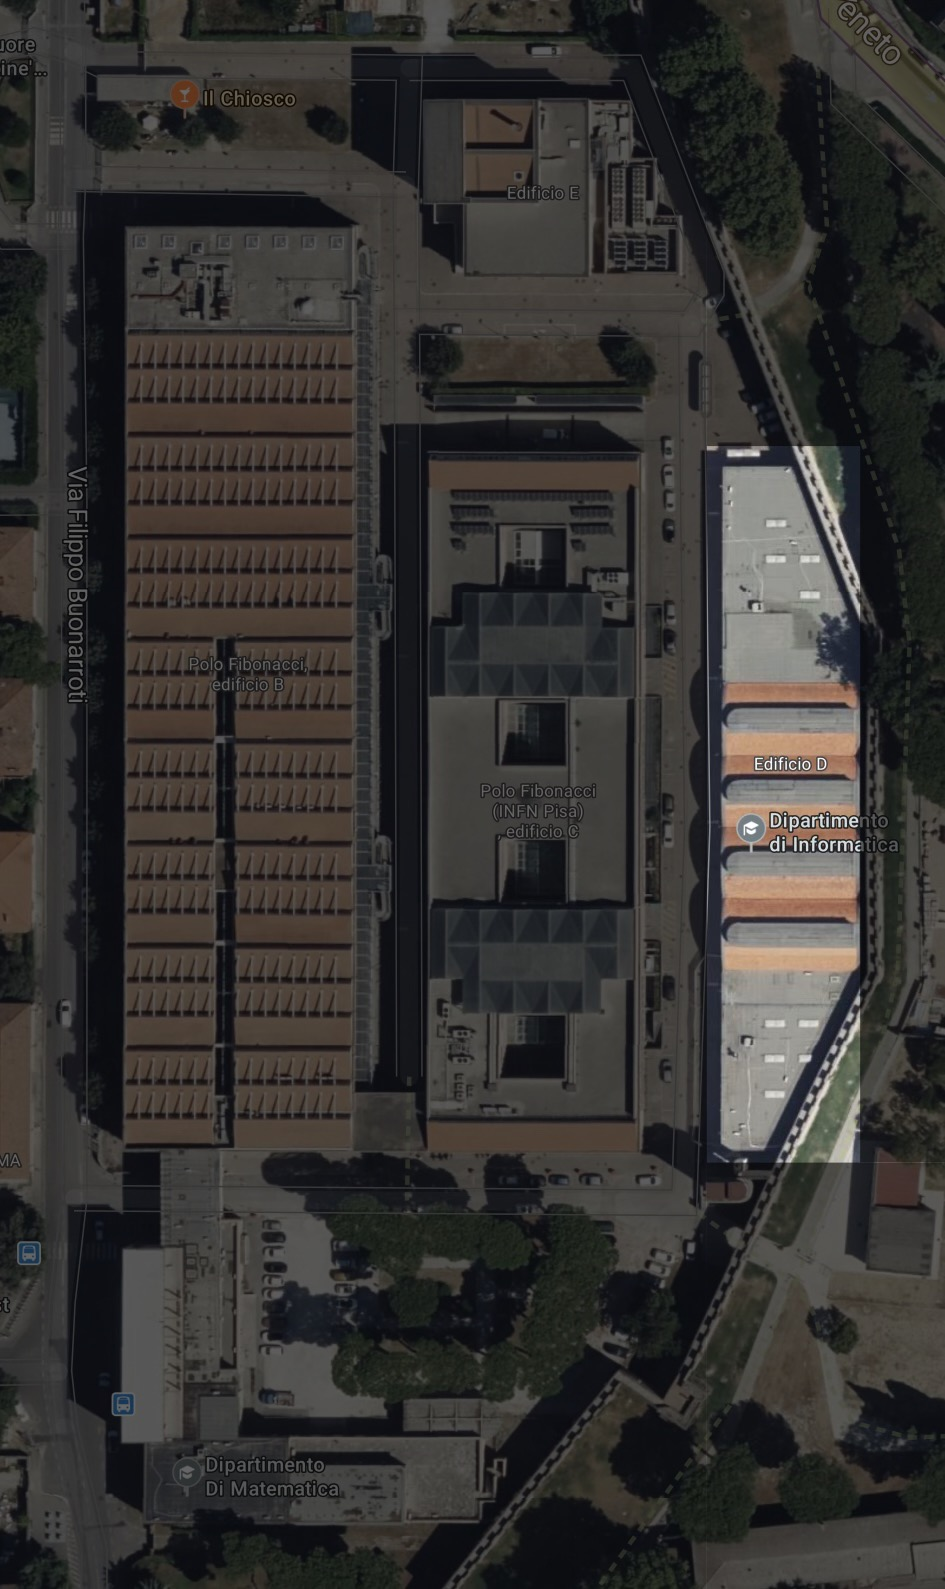
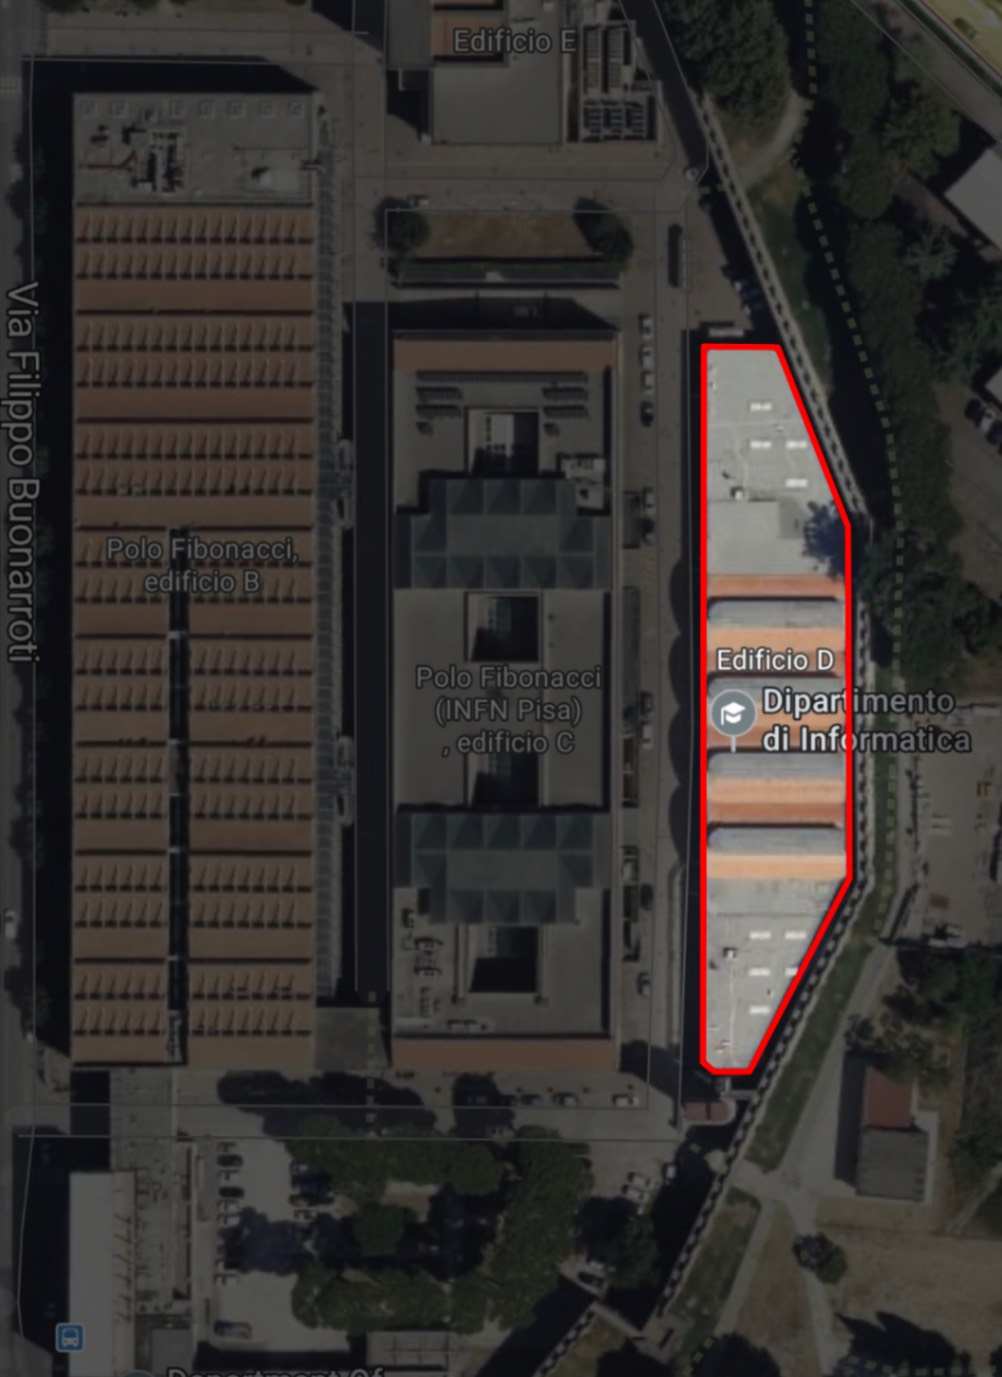
🥮

diff --git a/README.md b/README.md
@@ -58,9 +58,9 @@ https://github.com/plumkewe/informatica-unipi/
 		- [Sospensioni attività didattica](#sospensioni-attività-didattica)
 		- [Bookmarks](#bookmarks)
 - [Primo anno](#primo-anno)
-		- [Ripartizione](#ripartizione)
-		- [Aule](#aule)
-		- [Come accedere alle risorse](#come-accedere-alle-risorse)
+	- [Ripartizione](#ripartizione)
+	- [Aule](#aule)
+	- [Come accedere alle risorse](#come-accedere-alle-risorse)
 	- [Appunti](#appunti)
 		- [Algebra lineare](#algebra-lineare)
 		- [Analisi matematica](#analisi-matematica)
@@ -94,6 +94,7 @@ https://github.com/plumkewe/informatica-unipi/
 		- [GitHub Pro](#github-pro)
 		- [Office 365](#office-365)
 		- [Google Suite](#google-suite)
+		- [Autodesk Suite](#autodesk-suite)
 		- [Espresso](#espresso)
 		- [UNiDAYS](#unidays)
 		- [UniversityBox](#universitybox)
@@ -474,7 +475,7 @@ Come importare i segnalibri in: [Firefox](https://support.mozilla.org/it/kb/impo
 
 Il piano di studio è disponibile su [Cineca ↗](https://unipi.coursecatalogue.cineca.it/corsi/2025/11527/insegnamenti/53206) (2025/26), mentre il calendario delle lezioni si trova su [University Planner ↗](https://unipi.prod.up.cineca.it/calendarioPubblico/linkCalendarioId=6319d6a9f7245e0c5c9094e3). Poiché quest’ultimo non consente di applicare filtri, per una consultazione più comoda è necessario utilizzare [Agenda Didattica ↗](https://agendadidattica.unipi.it/)
 
-### Ripartizione
+## Ripartizione
 
 Una volta individuato il numero di matricola, occorre considerare le ultime due cifre: 
 * Corso A 00 =< 33
@@ -483,15 +484,20 @@ Una volta individuato il numero di matricola, occorre considerare le ultime due 
 
 [Info](https://didattica.di.unipi.it/laurea-in-informatica/ripartizione-degli-studenti-sui-corsi/)
 
-### Aule
+## Aule
 
 Le lezioni del primo anno si tengono nell’edificio D del Polo Fibonacci.
 
-<img src="altro/edificio.jpg" alt="Edificio D" height="200px">
+<table>
+  <tr>
+    <td><img src="altro/edificio.jpg" width="250"></td>
+    <td><img src="altro/cartina.jpg" width="250"></td>
+  </tr>
+</table>
 
 [Google Maps](https://maps.app.goo.gl/iYCT6VaziEFsiam16?g_st=ic)・[Apple Maps](https://maps.apple.com/place?address=Largo%20Bruno%20Pontecorvo%203,%2056127%20Pisa,%20Italy&coordinate=43.721188,10.407775&name=Polo%20Fibonacci&place-id=I88E823420B8E0D9F&map=explore)
 
-### Come accedere alle risorse
+## Come accedere alle risorse
 
 Per accedere a tutte le risorse didattiche online, come Moodle, Microsoft Teams e Google Classroom, è necessario utilizzare il proprio **account istituzionale.** Le modalità di accesso variano a seconda della piattaforma: per Google Classroom è richiesto un codice di iscrizione che viene fornito direttamente da ciascun docente, mentre per Moodle e Teams l'iscrizione ai corsi deve essere effettuata tramite l'[Agenda Didattica ↗](https://agendadidattica.unipi.it/). In quest'ultimo caso, per trovare l'insegnamento di proprio interesse, è sufficiente cercarlo inserendo il cognome del professore.
 
@@ -1368,6 +1374,14 @@ Il GitHub Student Developer Pack è un comodo pacchetto offerto da GitHub che me
 ### Google Suite
 
 **Link:** https://start.unipi.it/gsuite/
+<!--  -->
+<!--  -->
+<!--  -->
+<hr>
+
+### Autodesk Suite
+
+**Link:** https://www.autodesk.com/it/education/edu-software/overview
 <!--  -->
 <!--  -->
 <!--  -->
